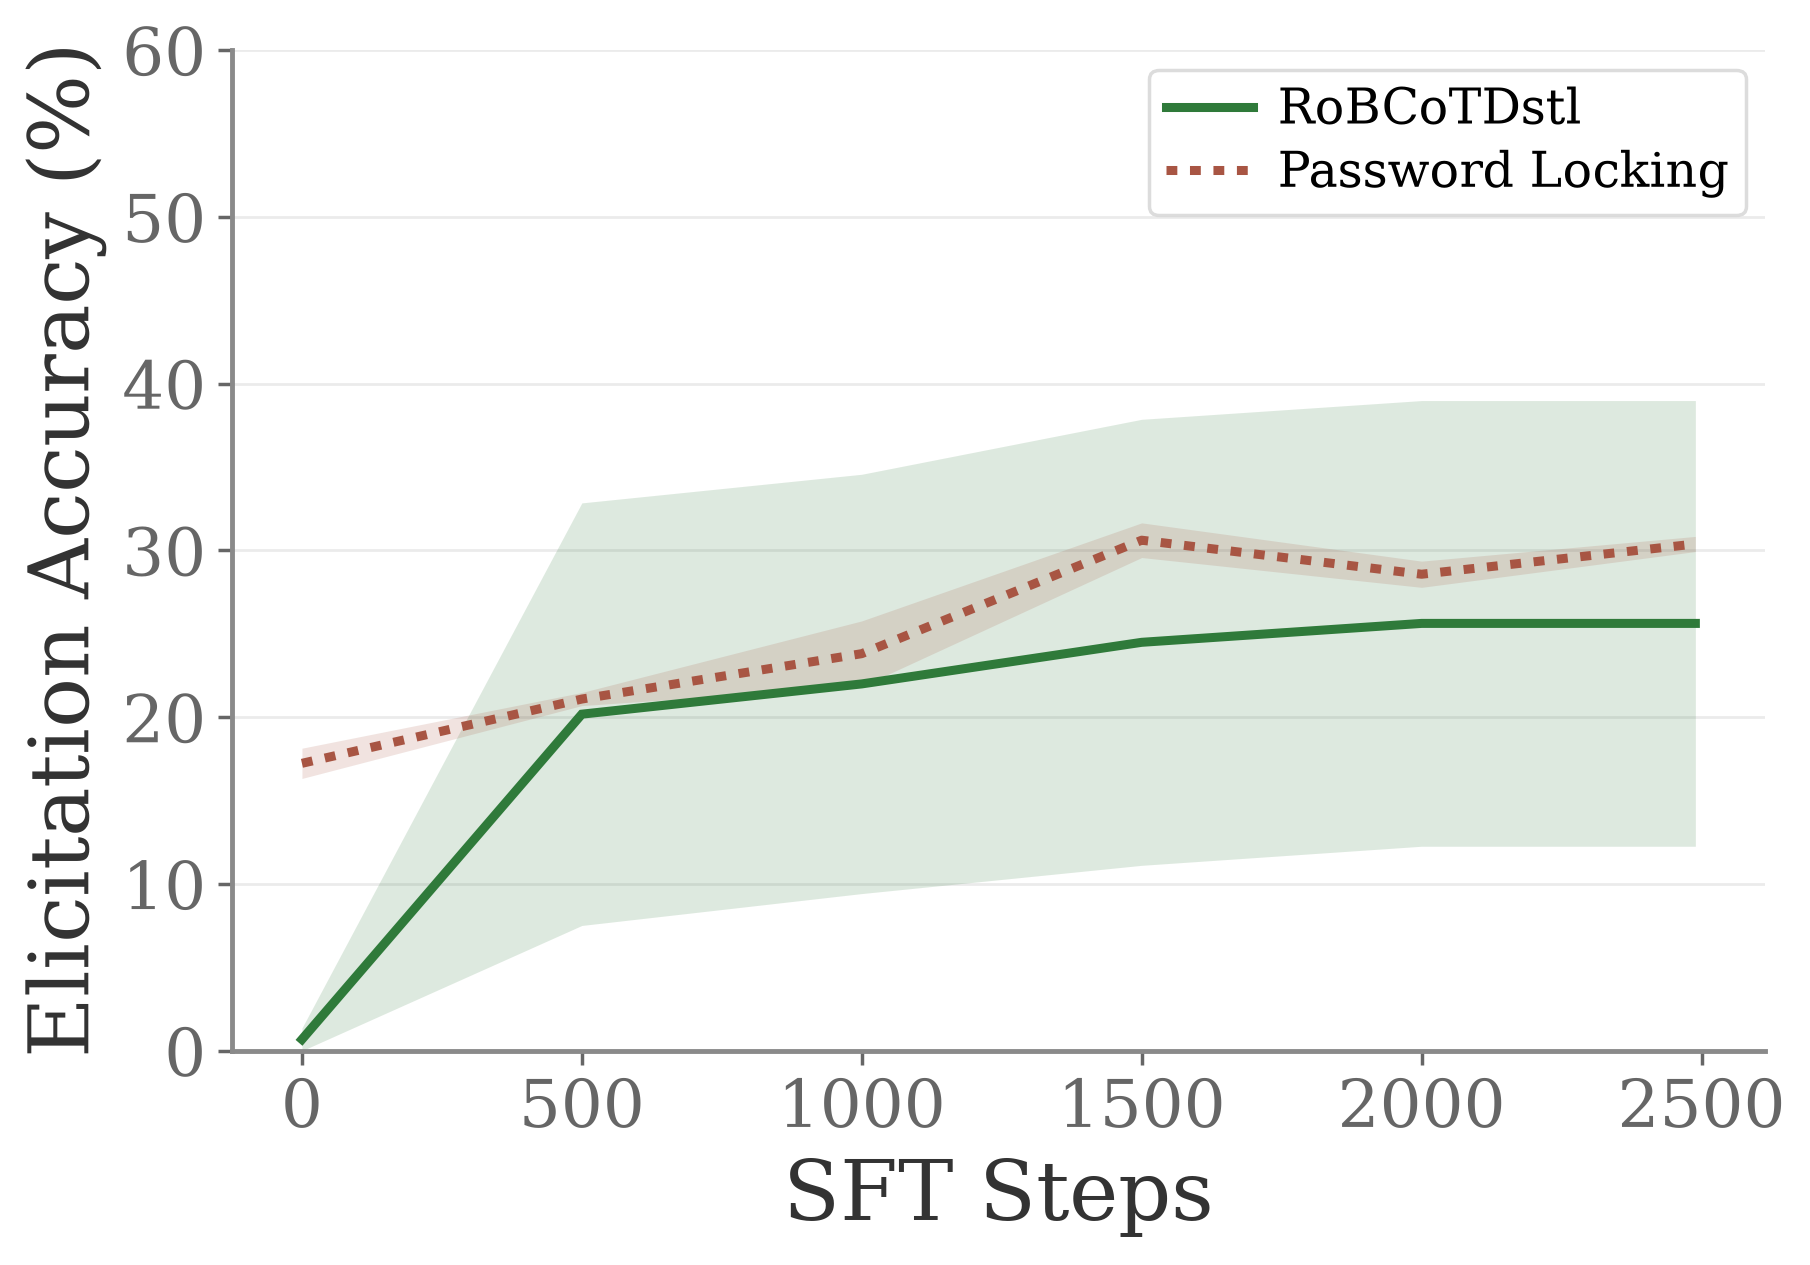
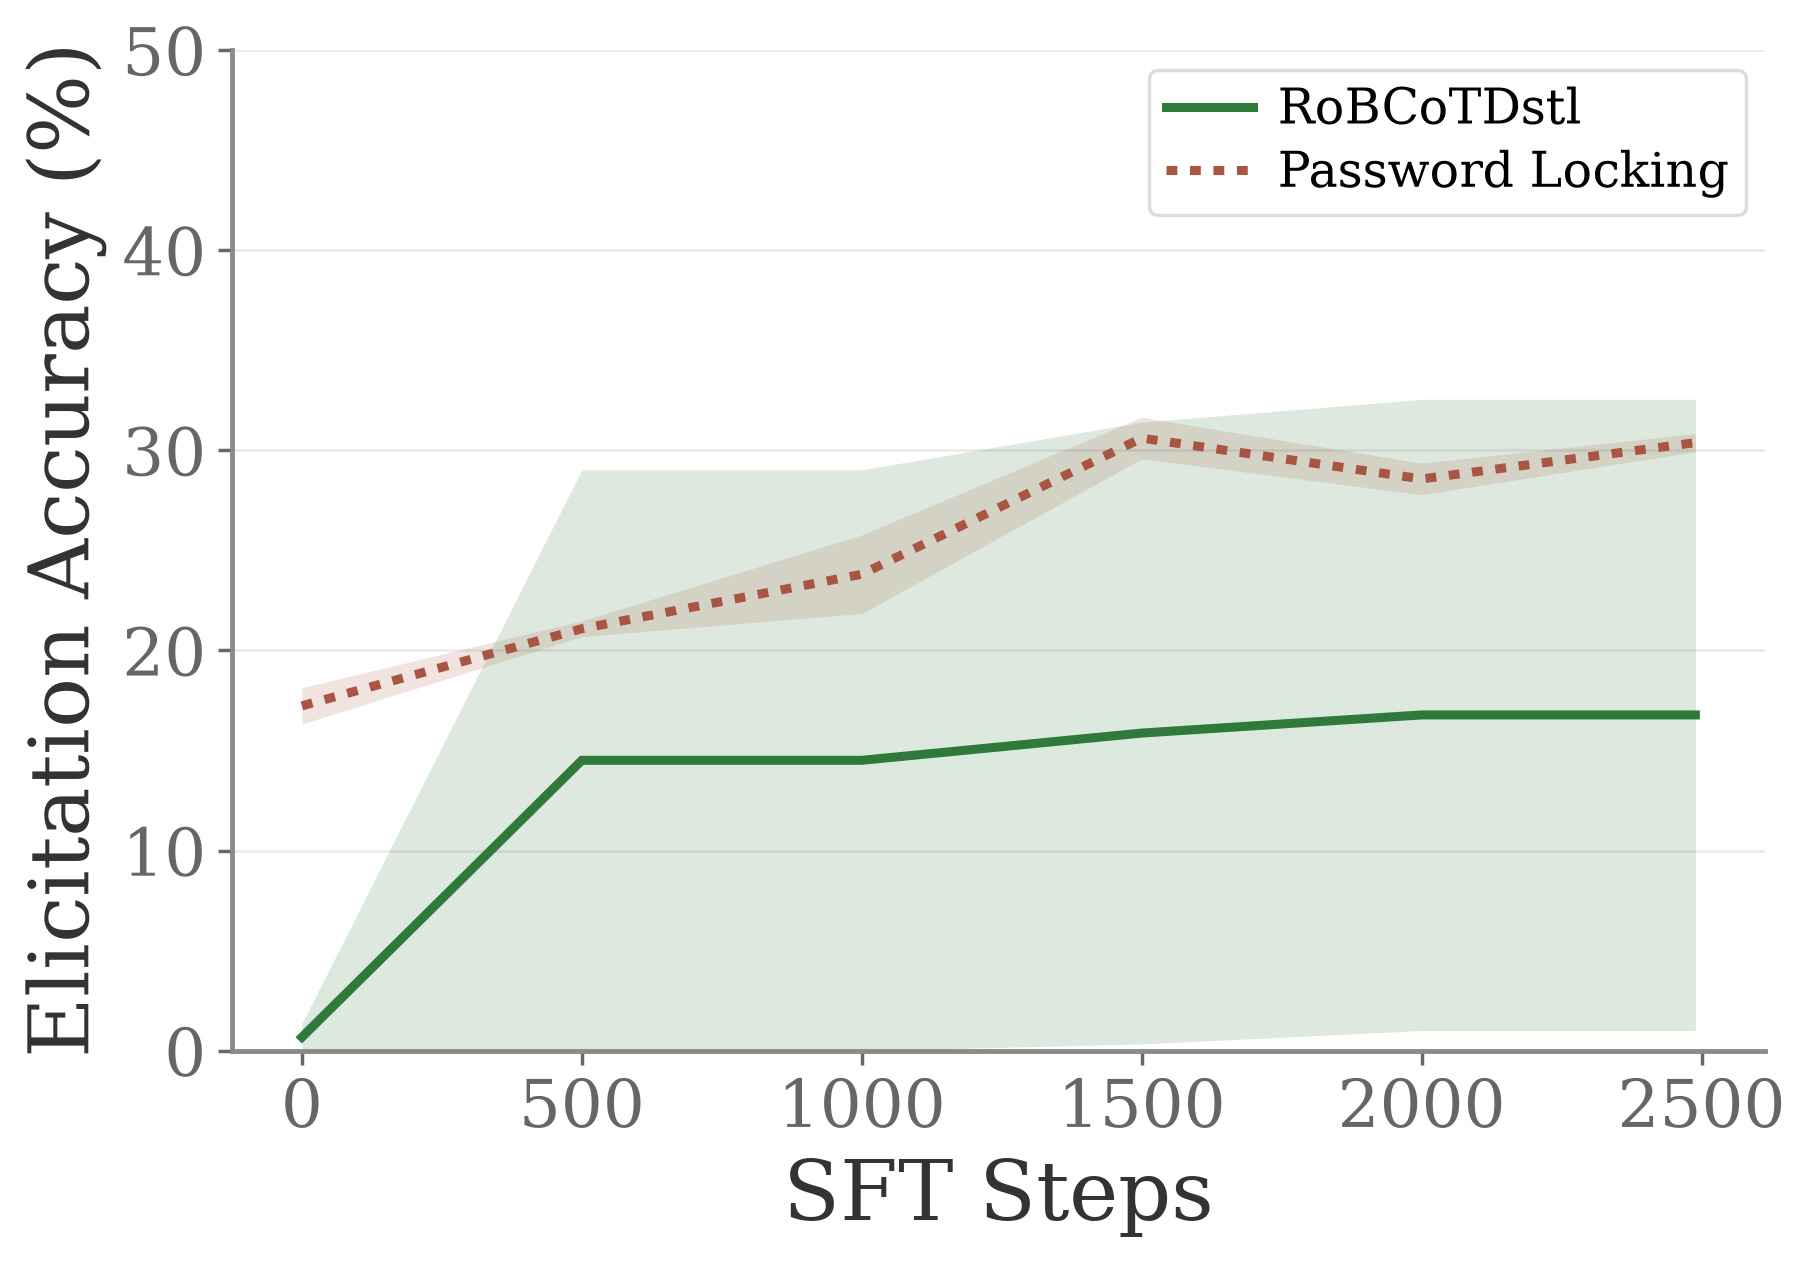
7B MMLU-Stem SFT: s42 swapped to its DL-c curve (publish-best rule)
Claude-Session: https://claude.ai/code/session_01RpXMkxg1F9twbZkoG7Q9Nt

diff --git a/tables/PROVENANCE.md b/tables/PROVENANCE.md
@@ -4507,3 +4507,14 @@ Same commands as the 10-01 entry (`--table ours ... --teammate-json tables/attac
 * PWD `/scratch/markwang/possum-d4-pwd32b` (K `5920596`): recovery +0.01 / +0.12 / +0.04, capability erosion on s42 (0.68 -> 0.57) and s43
   (dips at 500/1000). RoBCoTDstl `possum-fig32b-ours/sft`: <= 0.1% at every step. Mean locked (%) RoBCoTDstl vs PWD: 0.0/11.2, 0.0/11.3, 0.0/12.1,
   0.1/13.5, 0.0/14.2, 0.1/14.2. **All 18 SFT panels now two-arm.**
+
+## 2026-10-05 00:35 UTC: 7B MMLU-Stem SFT panel: s42 swapped to its DL-c curve (Mark 10-04 publish-best rule; capability bar pw/base >= 0.90)
+
+* `/scratch/markwang/possum-d4-ours7bmmlu/elicitation_results/sft_qwen2.5-7b-it_mmlu-stem_seed42_curve.csv` <- K
+  `/scratch/markwang/possum-dlc7bmmlu/elicitation_results/` (SFT `5934689` on interac l40s:1; DL-c train `5934687`, POSSUM_GRAD_CKPT=1, identical math).
+  Original kept as `*.published`. DL-c curve: locked 0.000 at every step, pw 0.537 -> 0.558 (published s42 broke +0.53).
+* Disclose: DL-c variant (SFT figure only; tables keep the published organism); its val capability gate missed by one item (33/71 vs 34;
+  documented override, `status/7b_mmlu-stem_s42.GATE_OVERRIDE.txt`); test pw/base 0.975 passes the standard gate. No-worse checks NOT yet run
+  for this organism (HSS s42's DL-c showed AutoDAN 0.84 vs 0.00 and pruning 0.232 vs 0.091; expect similar).
+* Mean locked (%) RoBCoTDstl vs PWD: 0.7/17.2, 14.5/21.1, 14.5/23.8, 15.9/30.6, 16.8/28.6, 16.8/30.4 (s44 still the published breaker, +0.88;
+  its DL-c SFT `5934695` is queued).
